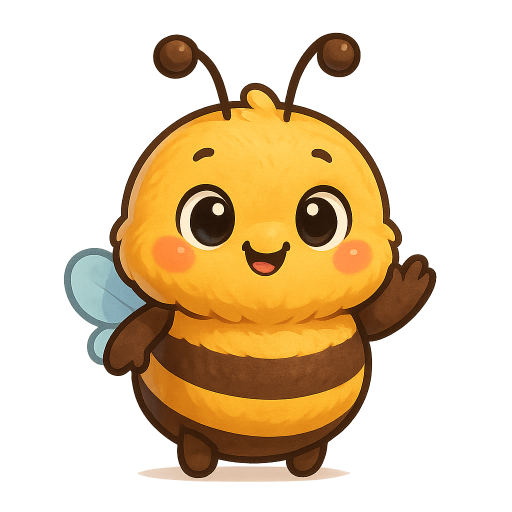
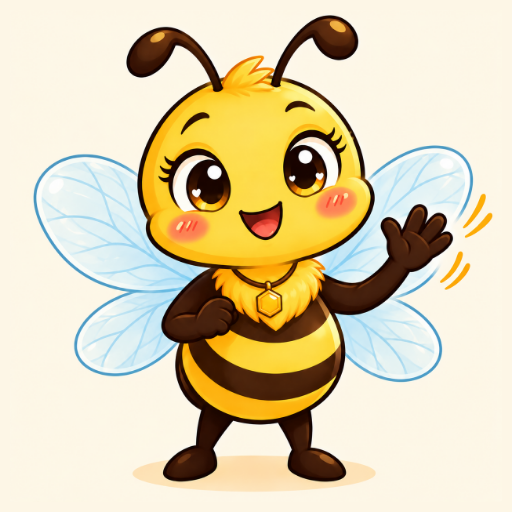
feat(lingua): la mascotte Bee = l'abeille choisie par Kevin (v2.16)
Kevin a fourni SON abeille (grands yeux à reflets cœur, houppette, pendentif miel,
grandes ailes) — elle remplace partout la version générée :
- Médaillons ronds webp 512 (34 Ko) servis pour toutes les poses en attendant les
  variantes ; icône d'app (apple-touch-icon + manifest) = sa frimousse sur fond crème.
- lingua/bee/bee-src.webp (1024, 87 Ko) = image de RÉFÉRENCE committée pour le workflow.
- Workflow lingua-bee-art réécrit : génère les poses fête/lecture/curieuse À PARTIR de
  cette référence (API images/edits, même personnage), commit sur claude/bee-mascot-art.
- Animations/réactions conservées (beeTalk, poses du Coach). Preuve navigateur réel :
  images chargées dans Coach + leçons, 0 requête échouée, 0 erreur JS. node --check OK.

Claude-Session: https://claude.ai/code/session_019QEiCHL1Dg5qivvomVkUqR

diff --git a/lingua/sw.js b/lingua/sw.js
@@ -3,7 +3,7 @@
    en ligne (plus jamais bloqué sur une ancienne page « collée » en mémoire), et on
    garde une copie en cache pour marcher hors-ligne. Aligné sur la règle « MAJ auto
    forcée toujours » : une nouvelle version publiée s'affiche dès la prochaine ouverture. */
-var CACHE = "lingua-v2.15.0";
+var CACHE = "lingua-v2.16.0";
 var ASSETS = ["./","./index.html","./app.js","./data.js","./manifest.webmanifest","./icon.svg","./bee/wave.webp","./bee/party.webp","./bee/read.webp"];
 
 self.addEventListener("install", function(e){

diff --git a/lingua/app.js b/lingua/app.js
@@ -2,7 +2,7 @@
    Vanilla JS, 0 dépendance. Auteur : KDMC. */
 (function(){
 "use strict";
-var APP_VER="v2.15.0";
+var APP_VER="v2.16.0";
 
 /* ============ Stockage : global vs par-compte ============ */
 function gg(k,d){ try{ var v=localStorage.getItem("lingua_g_"+k); return v==null?d:JSON.parse(v);}catch(e){return d;} }
